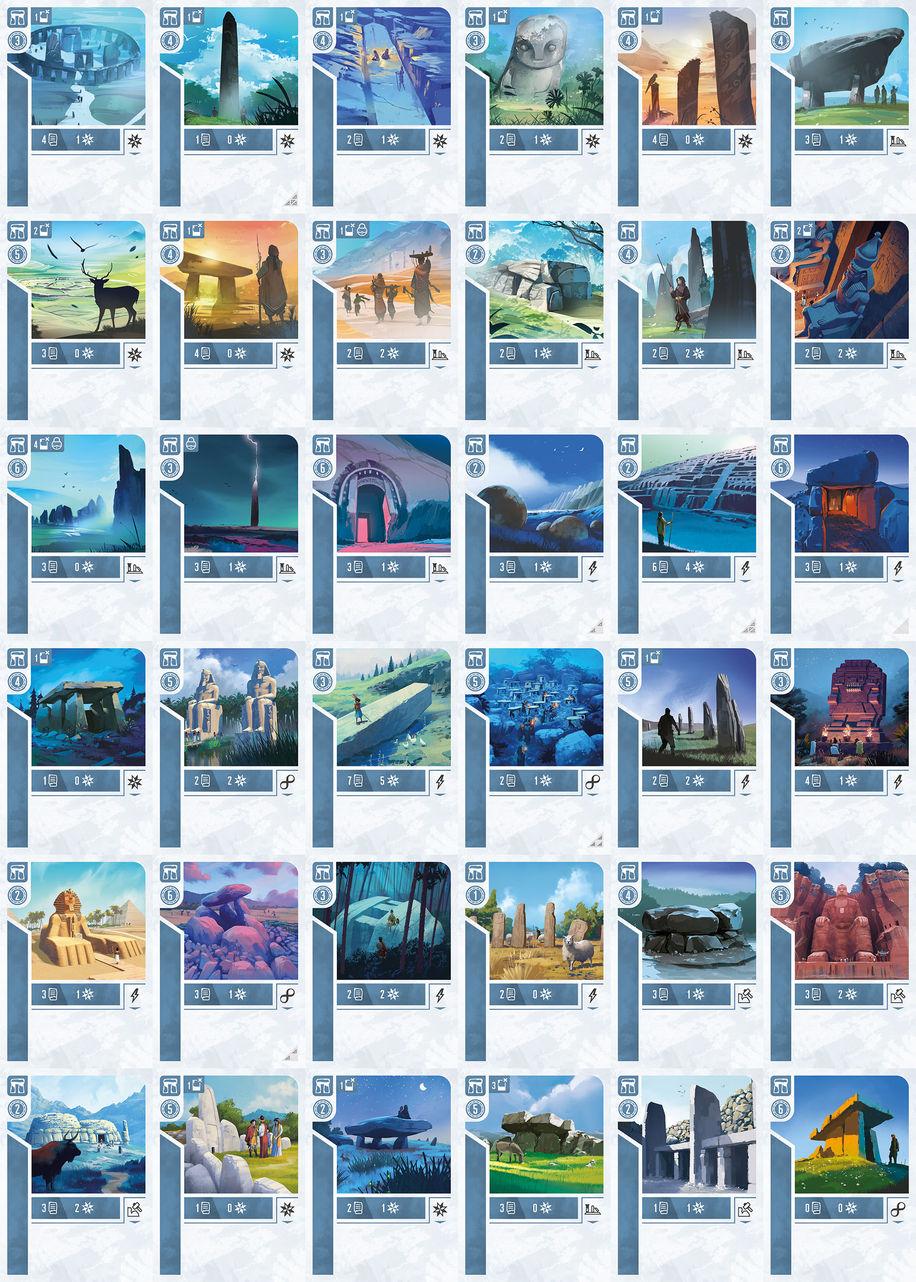
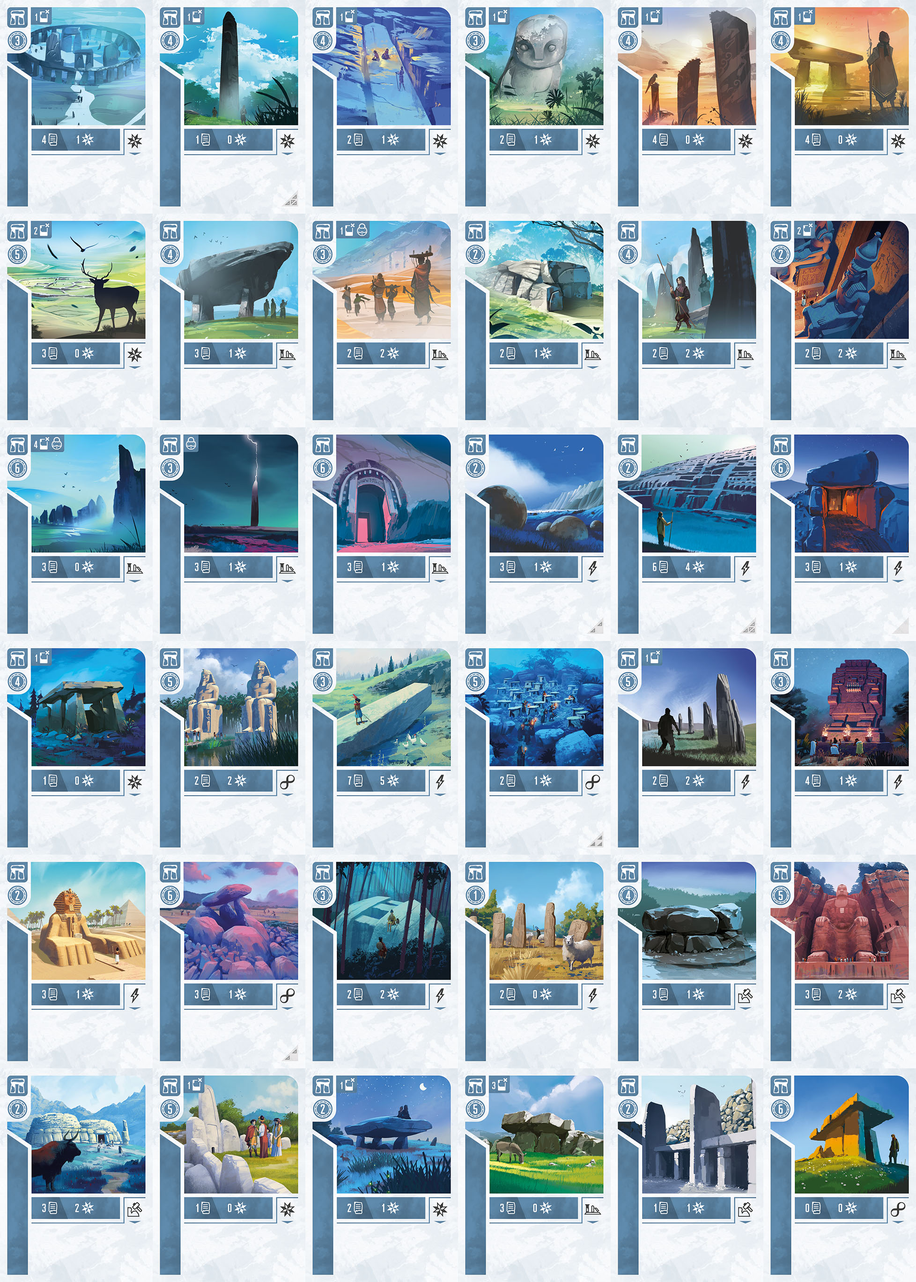
fix dolmen pictures

Changed region(s): [[0.1559, 0.1553, 0.343, 0.2796], [0.842, 0.0, 0.998, 0.1243]]

diff --git a/modules/php/DebugTrait.php b/modules/php/DebugTrait.php
@@ -49,6 +49,8 @@ trait DebugTrait
   // addHand(M15_BarabarCaves)
   // addHand(P8_PyramidOfUserkaf)
   // addHand(P35_CandiKethek)
+  // addHand(M6_DolmenOfGanghwa)
+  // addHand(M8_DolmenOfGochang)
   function addHand($cardId)
   {
     $player = Players::getCurrent();
